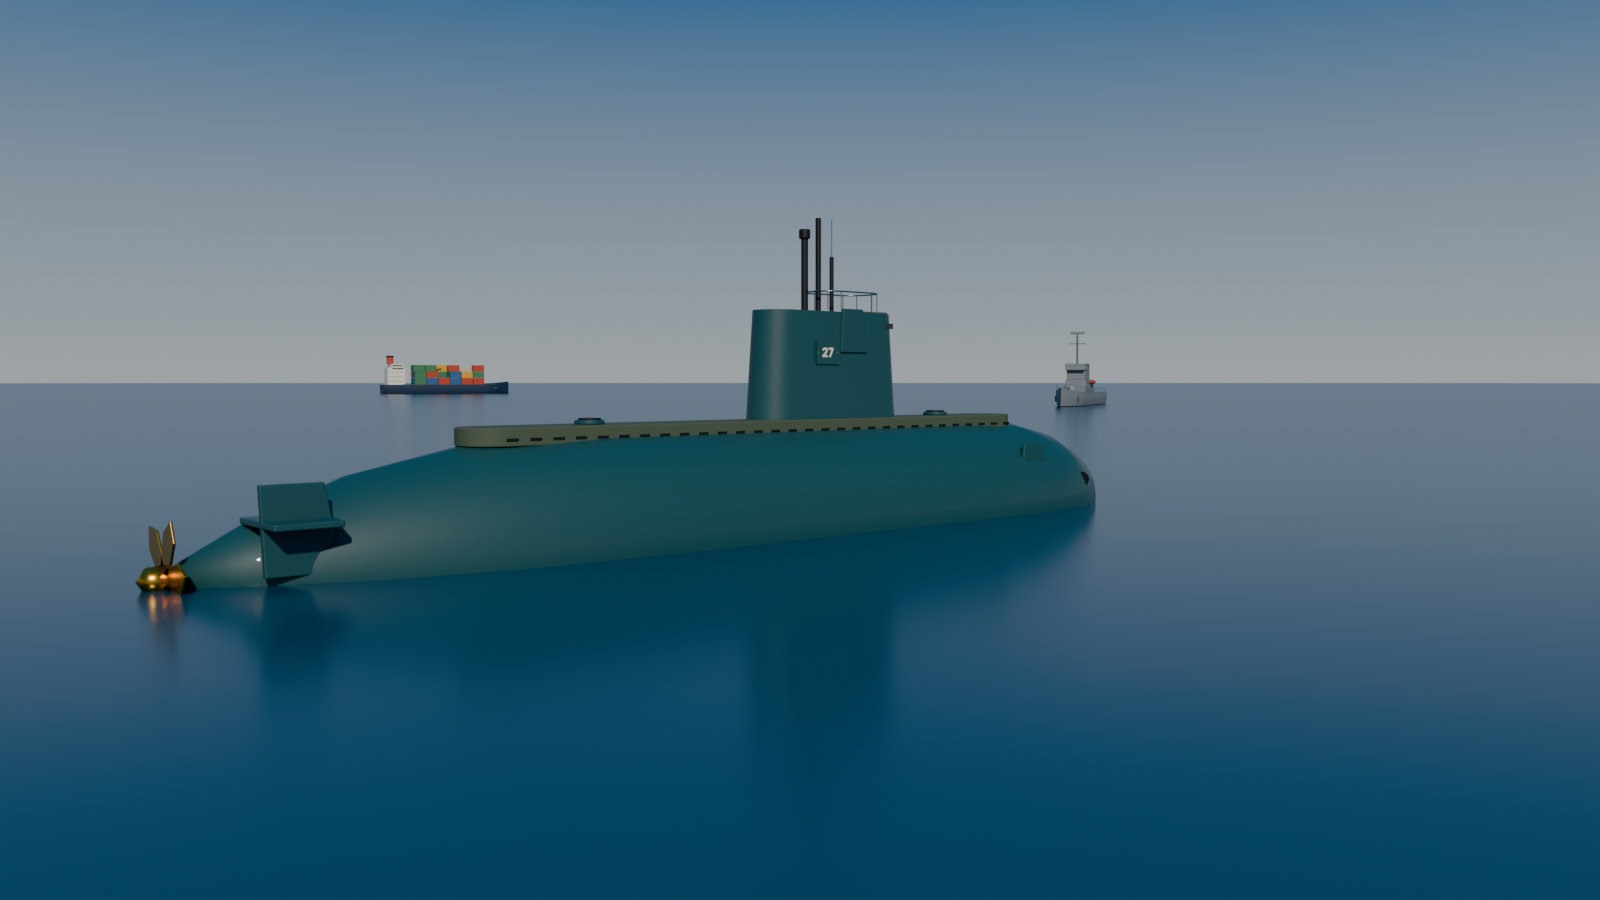
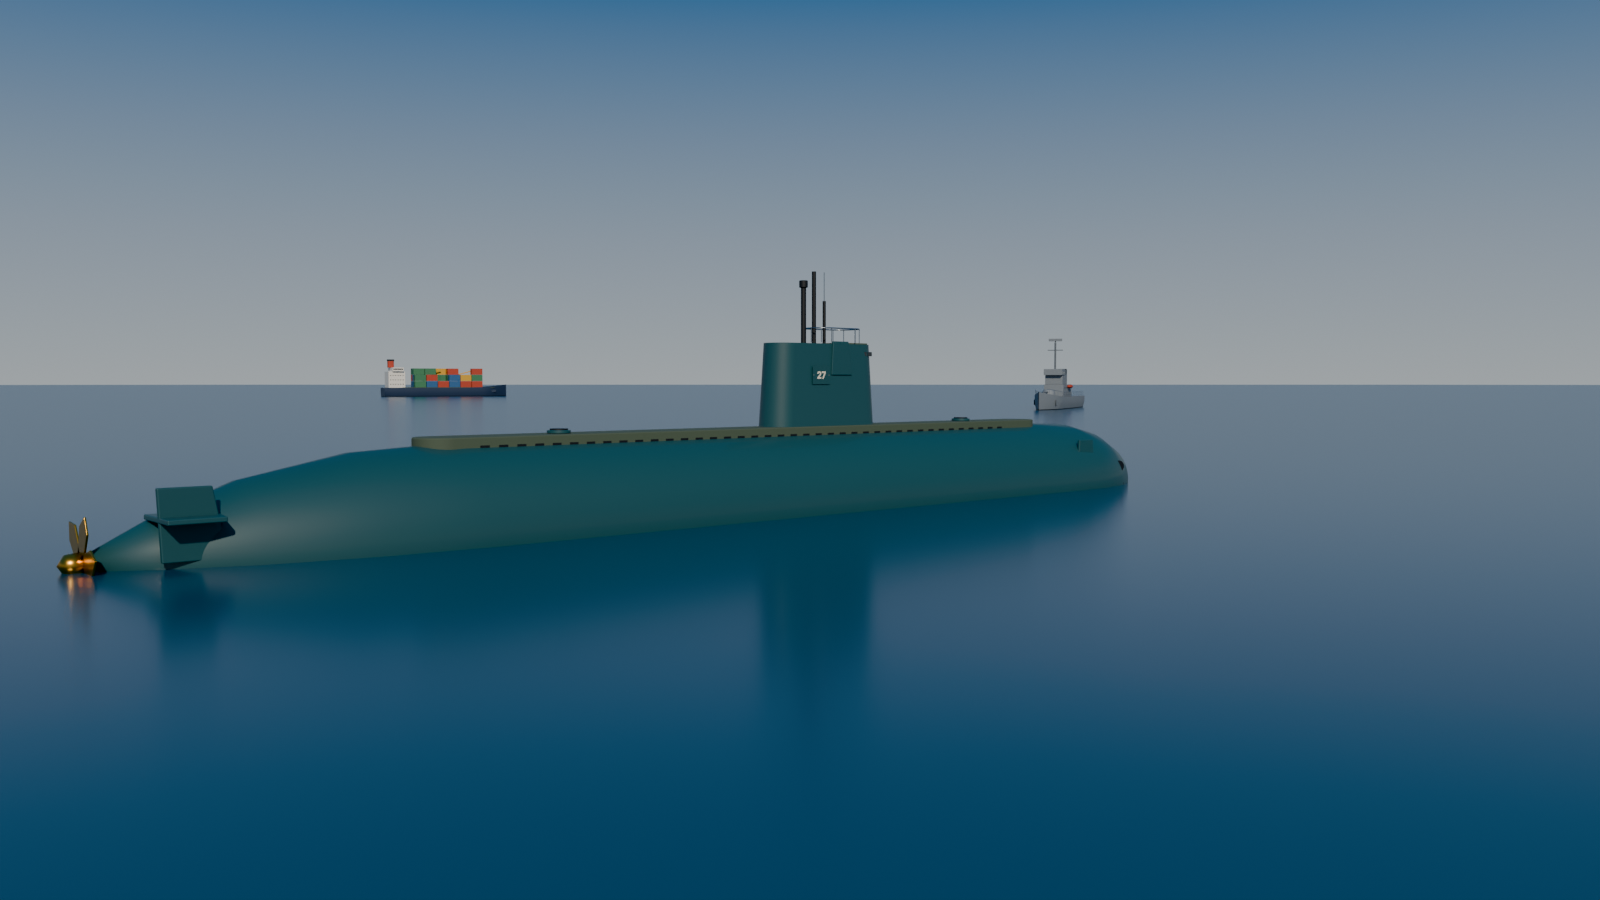
Renders: exterior and lower-deck cutaway; hide upper-deck crew in the lower cutaway
Claude-Session: https://claude.ai/code/session_01Emwc2QSxnznx9ABdr4vJFB

Changed region(s): [[0.0312, 0.2489, 0.7188, 0.7778], [0.2812, 0.6533, 0.5, 0.7778]]

diff --git a/submarine/scripts/sublib/render.py b/submarine/scripts/sublib/render.py
@@ -161,6 +161,15 @@ def cutaway(rooms, filepath, samples=96, res=(1600, 900), deck="upper"):
             if hide and not o.hide_render:
                 o.hide_render = True
                 hidden.append(o)
+    if deck == "lower":   # crew standing on the upper deck would float over the lower rooms in this view
+        crew_col = bpy.data.collections.get("RenderCrew")
+        for o in [q for q in (crew_col.all_objects if crew_col else []) if q is not None]:
+            top = o
+            while getattr(top, "parent", None) is not None:
+                top = top.parent
+            if top.matrix_world.translation.z > -1.45 and not o.hide_render:
+                o.hide_render = True
+                hidden.append(o)
     col = core.collection("RenderOnly")
     sun = bpy.data.objects.get("CutawaySun")
     if sun is None:
